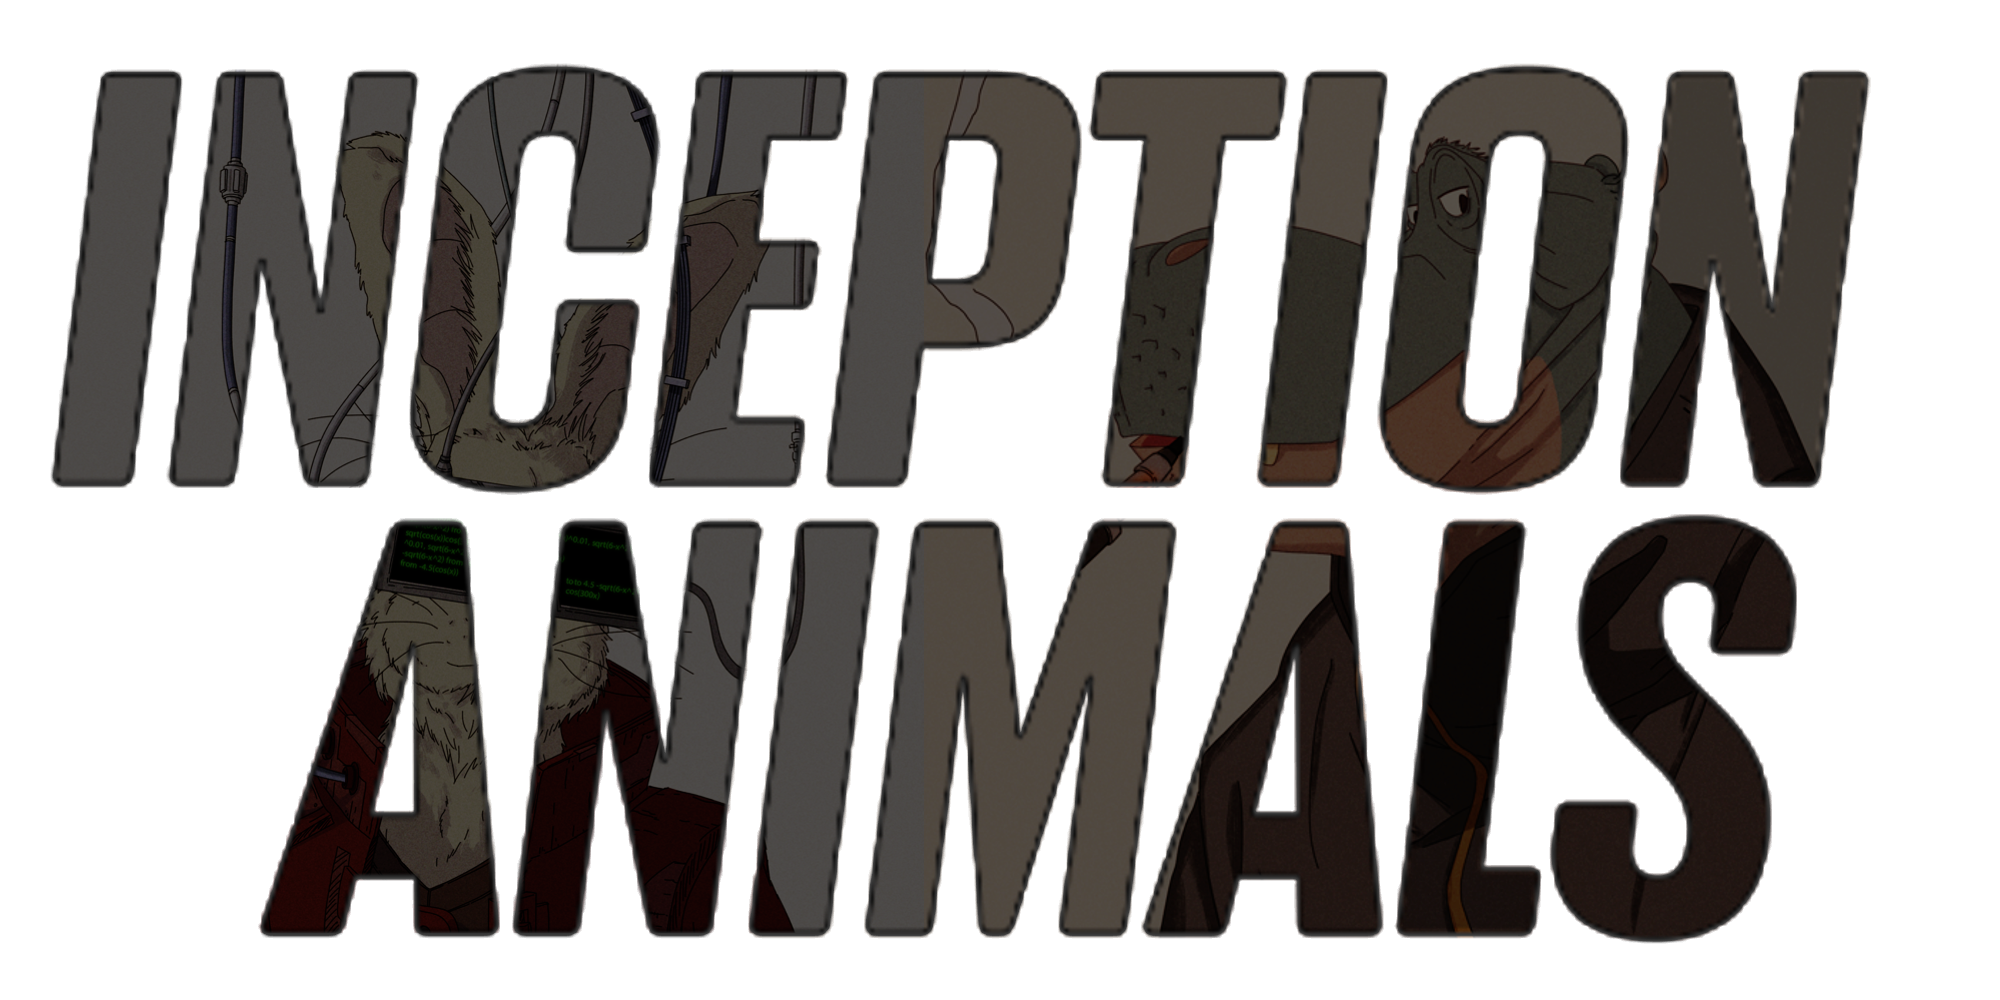
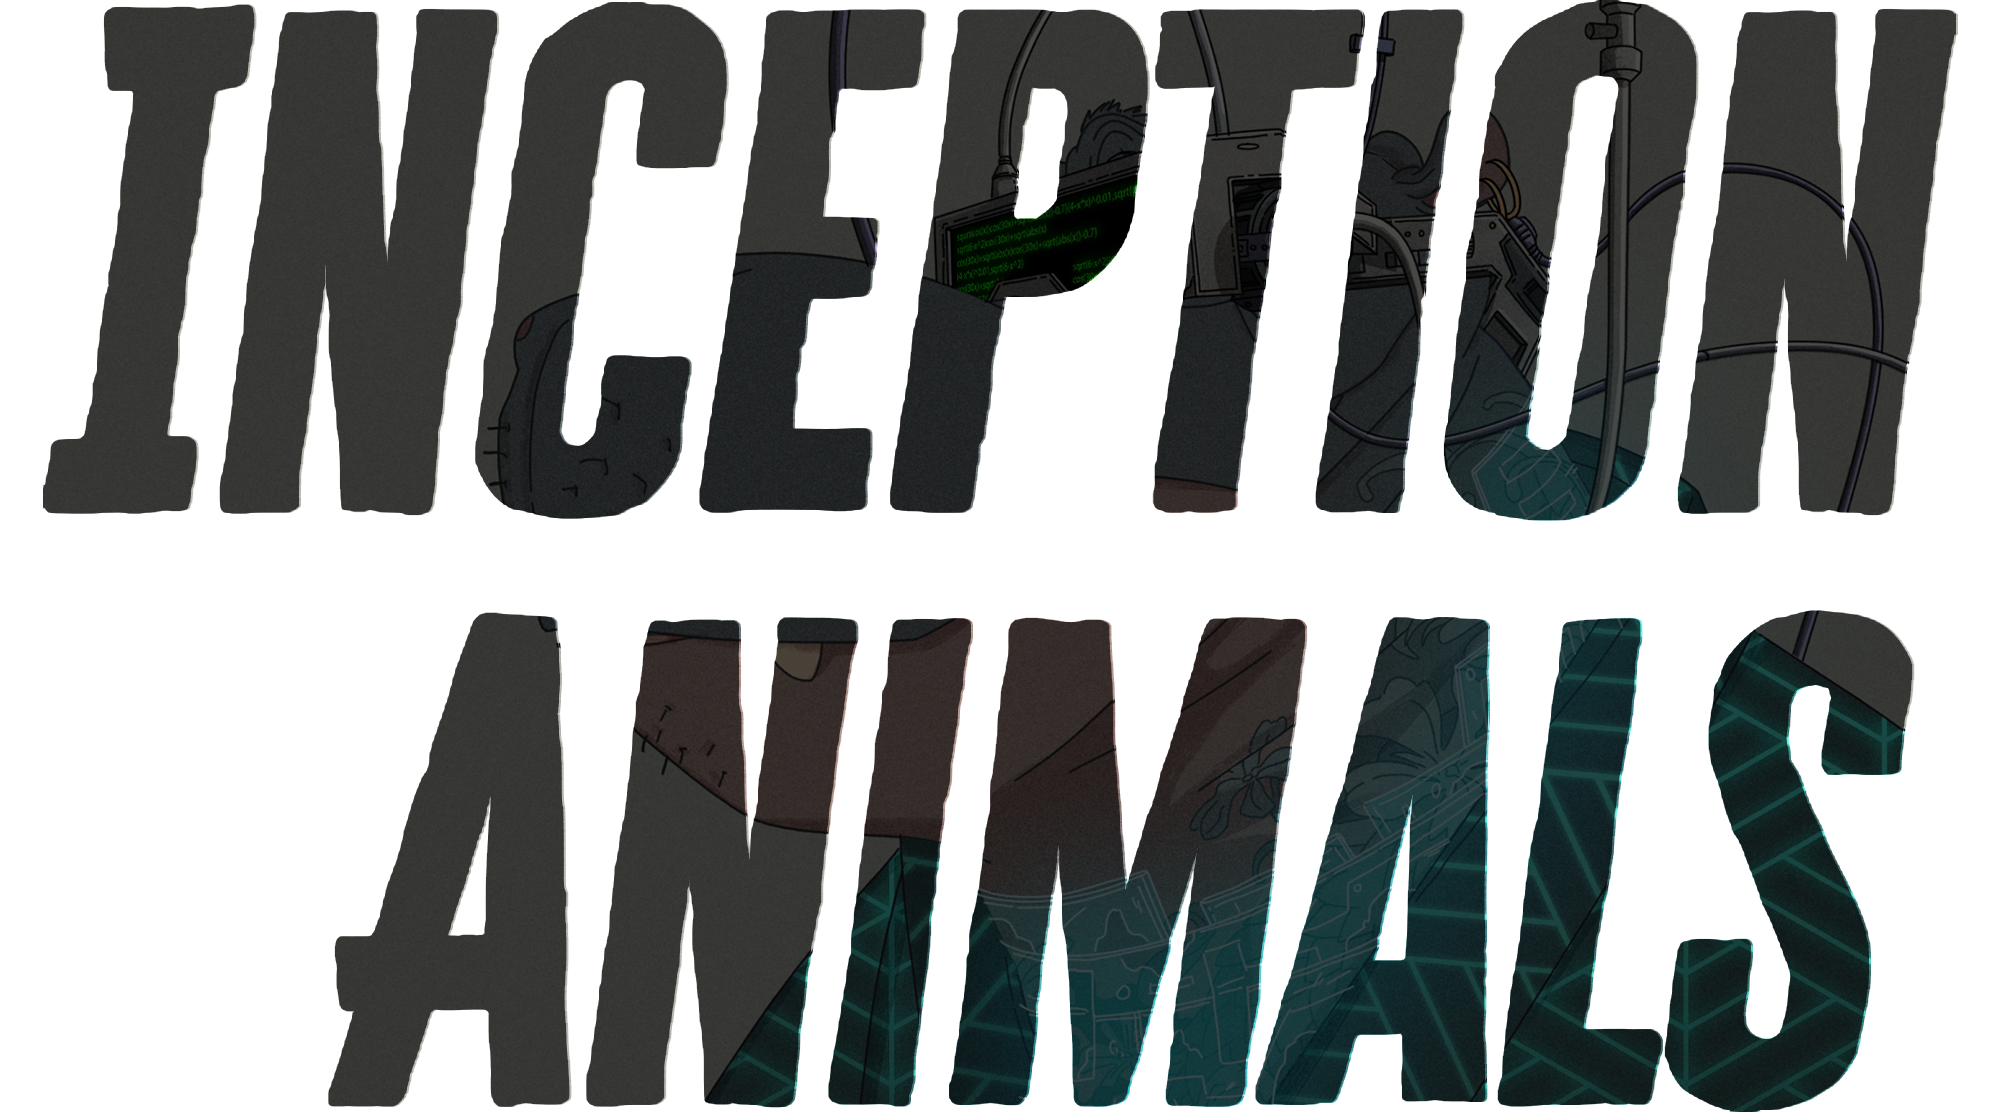
Misc: theme

diff --git a/components/SubwayParchment.tsx b/components/SubwayParchment.tsx
@@ -8,34 +8,29 @@ const Parchment: React.FC = () => {
       name: "A Friendly Yokai",
       title: "Co-founder & Artist",
       description: `A Friendly Yokai is a core designer & artist working on well-known TV shows such as Rick and Morty, Star Trek Lower Decks, etc.`,
-      extraDescription: `While having a successful journey in her career in the entertainment and TV industry, she is Graduated with an animation degree from Sheridan, famously known as the "Harvard of animation".`,
+      extraDescription: `While having a successful journey in her career in the entertainment and TV industry, she is graduated with an animation degree from Sheridan, famously known as the "Harvard of animation".`,
       imgSrc: "hare_1.jpg",
     },
     {
       name: "Alfredoo",
       title: "Co-founder & Engineer",
       description: `Previous a management consultant at Big 4, now an engineer and emerging leader in developing and nurturing web3 projects. `,
-      extraDescription: "Alfredoo brings experience from working at multiple international and major crypto companies while being a co-founder at both Flunks Inc. and Inception Animals.",
+      extraDescription:
+        "Alfredoo brings experience from working at multiple international and major crypto companies while being a co-founder at both Flunks Inc. and Inception Animals.",
       imgSrc: "cyber_hippo.jpg",
     },
     {
       name: "Yan",
       title: "Strategy & Operations",
       description: `Previously an experienced consultant at McKinsey & Company and the United Nations, currently a core member of Moody's Investors Service in Asia.`,
-      extraDescription: "Yan has 7 years of experience in various industries covering management consulting, operations, investment, and non-profit organizations after graduating from Johns Hopkins University with a master degree of International economics focusing on energy, resource, and environment.",
-      imgSrc: "yokatta_hippo.jpg",
-    },
-    {
-      name: "Juss",
-      title: "Community Lead",
-      description: `Juss is the "Aussie" leading the community of Inception Animals.`,
-      extraDescription: "Being a crypto OG on both Ethereum and Flow blockchain, Juss is bringing his 10+ years of experience in marketing and community manager experience from Crypto Piggos to Inception Animals.",
+      extraDescription:
+        "Yan has 7 years of experience in various industries covering management consulting, operations, investment, and non-profit organizations after graduating from Johns Hopkins University with a master's degree in International economics focusing on energy, resource, and environment.",
       imgSrc: "koala_1.jpg",
     },
     {
       name: "Henry",
       title: "Corporate Development",
-      description: `Previously an alumni of 2 of the "Big 4" firms, now leading the Finance & Strategy work at an entertainment startup that raised $85M in Series B recently`,
+      description: `Alumni of 2 of the "Big 4" firms, now leading the Finance & Strategy work at an entertainment startup that raised $85M in Series B recently`,
       extraDescription: "",
       imgSrc: "sports_hippo.jpg",
     },
@@ -100,8 +95,7 @@ const Parchment: React.FC = () => {
           A collection of 3,333 avatars of various animals that give you a
           unique identity to the universe driven by a never-ending grudge
           between generations of merits, soldiers, and inventions going against
-          each other in two once peaceful but turned against each other cities:
-          Ascos and Lucinia.
+          each other in two once peaceful cities: Ascos and Lucinia.
         </p>
         <p className="text-inception-light-brown my-4">
           It starts with high-quality avatars from our beloved artists from
@@ -120,9 +114,7 @@ const Parchment: React.FC = () => {
   const renderUniqueVibeText = () => {
     return (
       <div className="relative m-2 mt-6 font-inception lg:pr-72 text-xl">
-        <p className="text-inception-light-brown my-4">
-          Because, obviously...
-        </p>
+        <p className="text-inception-light-brown my-4">Inception Animals is to bring a unique vibe to the Flow ecosystem and build a long-term decentralized brand of the future.</p>
       </div>
     )
   }
@@ -130,7 +122,7 @@ const Parchment: React.FC = () => {
   const renderOwnedByCommunityText = () => {
     return (
       <div className="relative m-2 mt-6 font-inception lg:pr-72 text-xl">
-        <p className="text-inception-light-brown my-4">{`While Inception Animals is an NFT project, all that matters is the community, to add a unique vibe to the Flow ecosystem and build a long-term decentralized brand of the future.`}</p>
+        <p className="text-inception-light-brown my-4">{`While Inception Animals is an NFT project, all that matters is the community.`}</p>
         <p className="text-inception-light-brown my-4">{`We aim to find a unique angle to tap into both existing fans in the Flow ecosystem from projects like NBA Topshot and Flunks, together with potential fans from external blockchains like Ethereum, through the unique and professional art from professional artists, and the brand built together by the community.`}</p>
         <p className="text-inception-light-brown my-4">{`The longevity of the mini-economics system is ensured by a revenue-sharing model for real estate owners who can claim ownership in the universe by owning metaverse lands - a portion of secondary royalty will be distributed to the landowners with a well-defined engineering system including a bonus for staking your Inception Avatars.`}</p>
       </div>

diff --git a/components/Navigation.tsx b/components/Navigation.tsx
@@ -19,9 +19,27 @@ const Navigation: React.FC = () => {
   const navLinks = [
     { name: "HOME", link: "/", isOpen: true },
     { name: "SUBWAY", link: "/subway", isOpen: true },
-    { name: "THE CITY", link: "/city", isOpen: true },
-    { name: "MARKETPLACE", link: "/marketplace", isOpen: false },
-    { name: "BLUEPRINT", link: "/blueprint", isOpen: false },
+    { name: "CITY", link: "/city", isOpen: true },
+    { name: "MARKETPLACE", link: "", isOpen: false },
+    { name: "BLUEPRINT", link: "", isOpen: false },
+  ]
+
+  const externalNavLinks = [
+    {
+      name: <FontAwesomeIcon icon={faTwitter} className="w-4 h-4" />,
+      link: "https://twitter.com/Inceptionft",
+      isOpen: true,
+    },
+    {
+      name: <FontAwesomeIcon icon={faDiscord} className="w-4 h-4" />,
+      link: "https://discord.gg/zDbDHjTTvY",
+      isOpen: true,
+    },
+    {
+      name: <FontAwesomeIcon icon={faBookBookmark} className="w-4 h-4" />,
+      link: "https://alliu930410.gitbook.io/inception-animals",
+      isOpen: true,
+    },
   ]
 
   return (
@@ -30,7 +48,7 @@ const Navigation: React.FC = () => {
         <Link href="/" passHref>
           <h2 className="w-28 cursor-pointer">
             <img
-              src="/images/logo.png"
+              src="/logo.png"
               alt=""
               className="w-full h-full relative z-50"
             />
@@ -41,24 +59,49 @@ const Navigation: React.FC = () => {
           {navLinks.map((navLinkObj, index) => (
             <Link
               key={index}
-              href={navLinkObj?.isOpen ? navLinkObj.link : "/"}
+              href={navLinkObj?.isOpen ? navLinkObj.link : ""}
               passHref
             >
               <button
-                className={`text-inception-green font-inception font-extrabold hover:text-white transition-all duration-100 hover:bg-inception-green px-4 py-2 bg-white backdrop-blur-sm rounded bg-opacity-60 ${
+                className={`text-inception-green font-inception font-extrabold hover:text-inception-green transition-all duration-100 hover:bg-white px-4 py-2 bg-inception-light-green backdrop-blur-sm rounded bg-opacity-60 ${
                   pathname === navLinkObj.link
-                    ? "border-[1px] border-inception-green border-opacity-60"
+                    ? "border-[1px] border-inception-green"
                     : ""
                 }
+                ${
+                  navLinkObj?.isOpen
+                    ? " hover:cursor-pointer"
+                    : " hover:cursor-not-allowed opacity-50"
+                }
+                `}
+              >
+                {navLinkObj.name}
+              </button>
+            </Link>
+          ))}
+          {externalNavLinks.map((navLinkObj, index) => (
+            <Link
+              key={index}
+              href={navLinkObj?.isOpen ? navLinkObj.link : "/"}
+              passHref
+            >
+              <a target="_blank" rel="noopener noreferrer">
+                <button
+                  className={`text-inception-green font-inception font-extrabold hover:text-inception-green transition-all duration-100 hover:bg-white px-4 py-2 bg-inception-light-green backdrop-blur-sm rounded bg-opacity-60 ${
+                    pathname === navLinkObj.link
+                      ? "border-[1px] border-inception-green"
+                      : ""
+                  }
                 ${
                   navLinkObj?.isOpen
                     ? " hover:cursor-pointer"
                     : " hover:cursor-not-allowed"
                 }
                 `}
-              >
-                {navLinkObj.name}
-              </button>
+                >
+                  {navLinkObj.name}
+                </button>
+              </a>
             </Link>
           ))}
         </section>
@@ -101,9 +144,9 @@ const Navigation: React.FC = () => {
                           ? setShowMenu(!showMenu)
                           : null
                       }}
-                      className={`flex justify-between w-full items-center relative hover:text-white transition-all duration-100 hover:bg-inception-green px-4 py-4 bg-white backdrop-blur-sm rounded bg-opacity-60 mt-1 ${
+                      className={`flex justify-between w-full items-center relative hover:text-inception-green transition-all duration-100 hover:bg-white px-4 py-4 bg-inception-light-green backdrop-blur-sm rounded bg-opacity-60 mt-1 ${
                         pathname === navLinkObj.link
-                          ? "border-[1px] border-inception-green border-opacity-60"
+                          ? "border-[1px] border-inception-green"
                           : ""
                       }`}
                     >

diff --git a/components/Homepage.tsx b/components/Homepage.tsx
@@ -3,9 +3,6 @@ import { useState } from "react"
 /* eslint-disable @next/next/no-img-element */
 const HomePage: React.FC = () => {
   const [displayText, setDisplayText] = useState<boolean>(false)
-  const [displayImageSrc, setDisplayImageSrc] = useState<string>(
-    "/images/banner_masked.png"
-  )
 
   return (
     <div
@@ -15,29 +12,29 @@ const HomePage: React.FC = () => {
       }}
     >
       <div className="hidden sm:block m-auto sm:h-[500px] max-w-full justify-center">
-        <div className="h-6">
-          <h1 className="text-inception-green text-xl font-inception m-auto">
-            {displayText
-              ? "Yo stranger, welcome to Zion, have you heard of the World Trigger?"
-              : " "}
+        <div className="h-6 mb-4 animate-fadeIn">
+          <h1
+            className={`text-inception-green text-xl font-inception m-auto text-center md:text-left lg:-ml-24 ${
+              displayText ? "opacity-100" : "opacity-0"
+            }`}
+          >
+            Yo stranger, welcome to Zion, have you heard of the World Trigger?
           </h1>
         </div>
         <img
           className="w-full max-h-full animate-fadeIn"
-          src={displayImageSrc}
+          src="/images/banner_masked.png"
           alt=""
           onMouseOver={(e) => {
-            // e.currentTarget.src = "/images/banner.png"
-            setDisplayImageSrc("/images/banner.png")
+            e.currentTarget.src = "/images/banner.png"
             setDisplayText(true)
           }}
           onMouseOut={(e) => {
-            // e.currentTarget.src = "/images/banner_masked.png"
-            setDisplayImageSrc("/images/banner_masked.png")
+            e.currentTarget.src = "/images/banner_masked.png"
             setDisplayText(false)
           }}
         />
-        <h1 className="font-inception text-inception-gray lg:-ml-20 relative z-20 text-md">
+        <h1 className="font-inception text-inception-gray lg:-ml-20 relative z-20 text-md mt-4">
           A retro futuristic metaverse brand
         </h1>
       </div>
@@ -47,13 +44,13 @@ const HomePage: React.FC = () => {
           <a>All Rights Reserved.</a>
         </div>
 
-        <div className="hidden gap-4 md:flex">
+        {/* <div className="hidden gap-4 md:flex">
           <img className="h-8" src="/icons/dapper.png" alt=""></img>
           <img className="h-8" src="/icons/nftgenius.png" alt=""></img>
           <img className="h-8" src="/icons/gaia.png" alt=""></img>
           <img className="h-8" src="/icons/flunks.png" alt=""></img>
           <img className="h-8" src="/icons/on_flow.png" alt=""></img>
-        </div>
+        </div> */}
       </div>
     </div>
   )

diff --git a/components/Footer.tsx b/components/Footer.tsx
@@ -19,7 +19,11 @@ const Footer: React.FC = () => {
     <div className="flex items-center justify-between bottom-16 right-0 z-50 opacity-80 hover:opacity-100 absolute">
       <div className="relative right-20 hidden sm:flex">
         <img src="/images/grapevine.png" alt="" className="h-20 relative" />
-        <div className="flex absolute bottom-8 right-10 gap-1">
+        <div className="flex flex-col text-inception-off-white font-inception absolute left-32 bottom-2">
+          <p className="text-xs">A CHILL UNIVERSE FOR</p>
+          <p className="text-lg">RETRO FUTURISTIC LOVERS</p>
+        </div>
+        {/* <div className="flex absolute bottom-3 right-12 gap-1">
           <img
             src="/icons/twitter.svg"
             alt=""
@@ -38,7 +42,7 @@ const Footer: React.FC = () => {
             className="w-8 h-8 hover:cursor-pointer"
             onClick={openGitbook}
           />
-        </div>
+        </div> */}
       </div>
     </div>
   )

diff --git a/components/coreui/Button.tsx b/components/coreui/Button.tsx
@@ -6,7 +6,7 @@ const NavButton: React.FC = (props: any) => {
   return (
     <>
       <Link href="/" passHref>
-        <button className="text-white hover:text-[#2b2a2b] transition-all duration-100 hover:bg-white px-4 py-2 bg-[#2b2a2b] bg-opacity-60 backdrop-blur-lg rounded font-bold">
+        <button className="text-white hover:text-[#2b2a2b] transition-all duration-100 hover:bg-inception-light-green px-4 py-2 bg-[#2b2a2b] bg-opacity-60 backdrop-blur-lg rounded font-bold">
           {content}
         </button>
       </Link>

diff --git a/components/Banner.tsx b/components/Banner.tsx
@@ -2,10 +2,10 @@
 const Banner: React.FC = () => {
   return (
     <div className="flex flex-col justify-center items-end lg:flex-row w-full h-full">
-      <div className="h-full pt-32 pl-10 pb-10 mt-auto">
+      <div className="h-full pt-32 pl-10 pb-10">
         <img
           className="w-full max-h-full"
-          src="/images/banner_masked.png"
+          src="/images/banner.png"
           alt=""
           onMouseOver={(e) => {
             e.currentTarget.src = "/images/banner.png"

diff --git a/tailwind.config.js b/tailwind.config.js
@@ -6,8 +6,9 @@ module.exports = {
   theme: {
     extend: {
       colors: {
-        "inception-green": "#008056",
-        "inception-off-white": "#fff9ef",
+        "inception-green": "#C56348",
+        "inception-light-green": "#EBD5CA",
+        "inception-off-white": "#f4f2ea",
         "inception-gray": "#A8A2A2",
         "inception-red": "rgb(192, 53, 64)",
         "inception-brown": "#402d28",

diff --git a/styles/globals.css b/styles/globals.css
@@ -1,11 +1,11 @@
 html {
   height: 100%;
-  background: #fff9ef;
+  background: #f4f2ea;
 },
 body {
   padding: 0;
   margin: 0;
-  background: #fff9ef;
+  background: #f4f2ea;
   min-height: 100%;
   font-family: -apple-system, BlinkMacSystemFont, Segoe UI, Roboto, Oxygen,
     Ubuntu, Cantarell, Fira Sans, Droid Sans, Helvetica Neue, sans-serif;

diff --git a/pages/index.tsx b/pages/index.tsx
@@ -8,7 +8,7 @@ const Home: NextPage = () => {
     <div className="w-full max-h-screen">
       <Navigation />
       <HomePage />
-      <Footer />
+      {/* <Footer /> */}
     </div>
   )
 }
